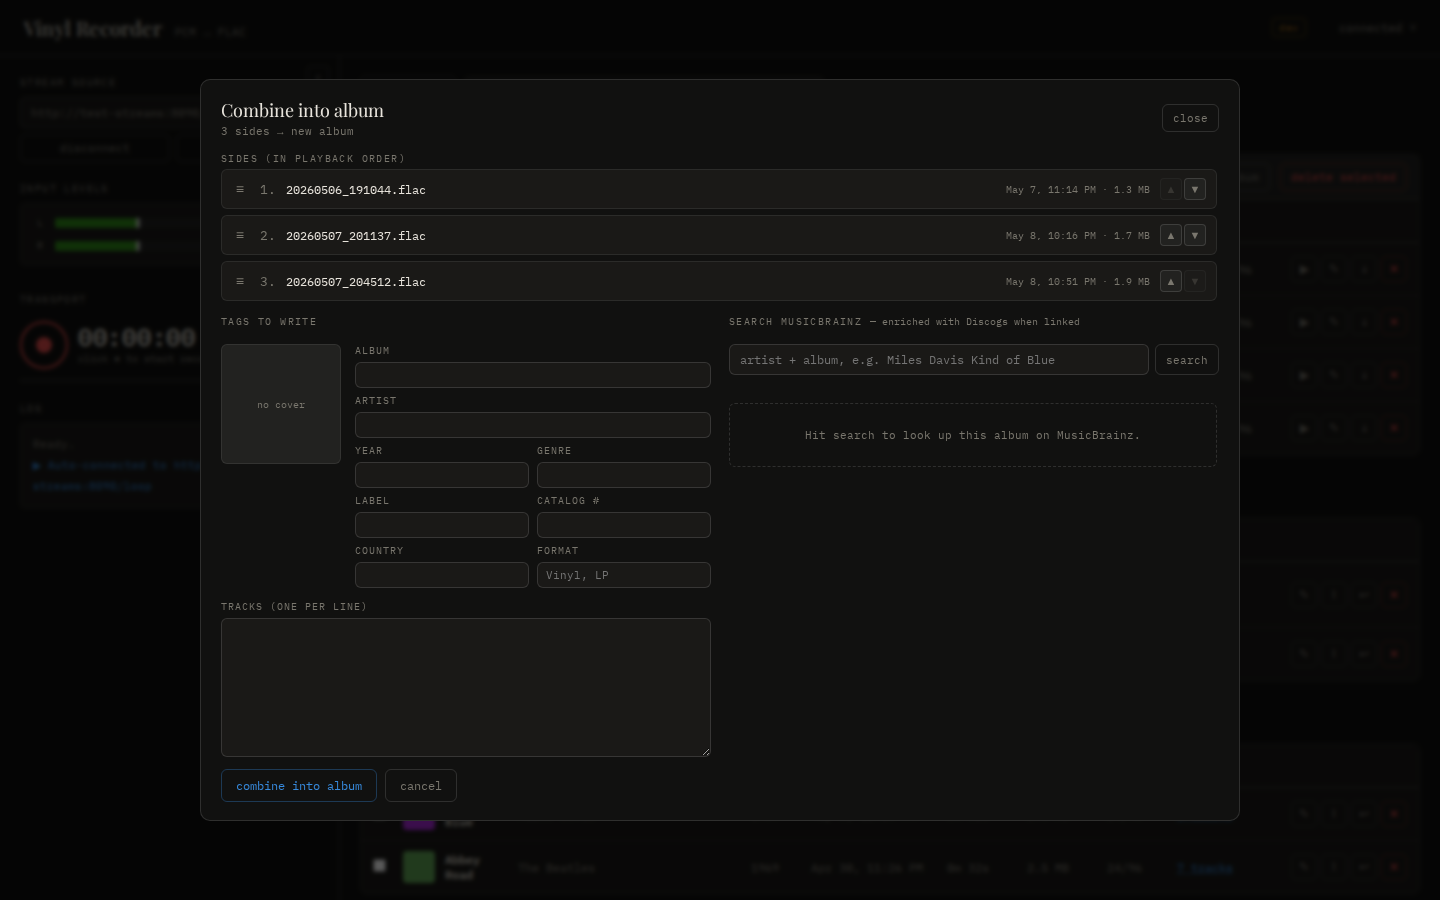
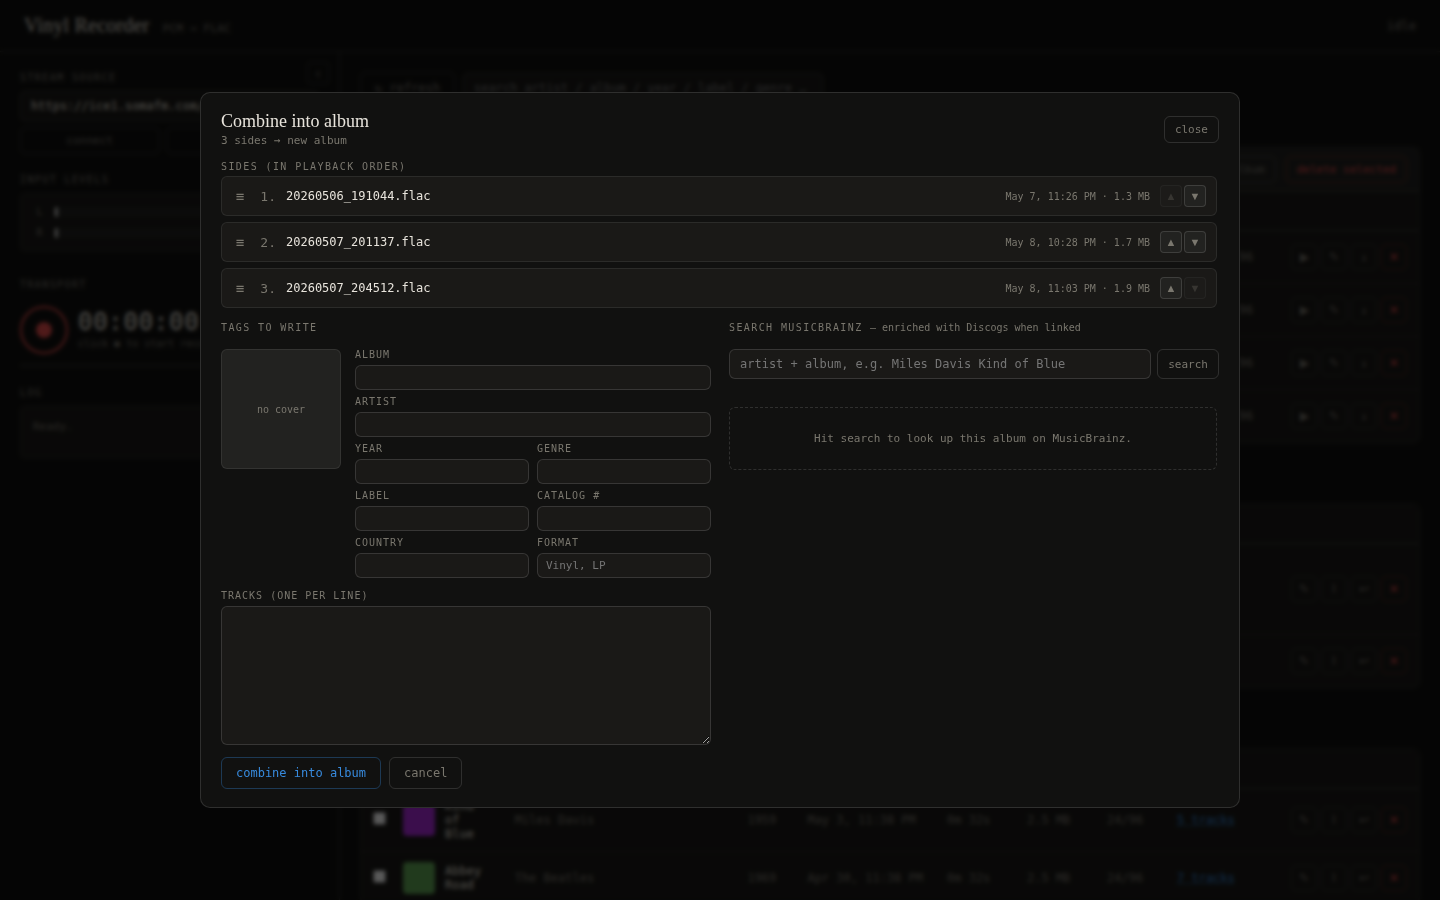
Shape album side audio + perceptual-diff gate for screenshots
The wave-editor screenshot was unconvincing: the seed only emitted
sine bursts at constant amplitude, so the "split into tracks" panel
showed a flat solid bar instead of the LP-shaped envelope a real
album rip would have. Replace the in-progress sides with pink-noise
segments whose per-track amplitudes cycle through realistic loudness
values and whose boundaries get brief low-amp dips; the editor's
silence overlay + cut markers now line up with visible track shapes.

Add a perceptual-diff gate (tools/compare_screenshots.py) so the
auto-refresh workflow doesn't spam commit-backs when the visible UI
hasn't changed. Strict byte equality is too tight: chromium font
rendering and PNG encoder timing produce small byte differences even
on identical UIs, and the workflow was previously committing those.
The new gate counts pixels whose per-channel max difference exceeds
5 intensity points; commit-back fires only when >0.1 % of the image
differs. Two consecutive runs against the same seed now produce
byte-identical PNGs (verified locally).

Mask the header version-tag in the screenshot CSS — `git describe`
output changes on every commit and would otherwise force the diff
gate to flag every PR even when the page itself is unchanged.

https://claude.ai/code/session_017ckMd5iiwUeHbE2rXNtgh1

diff --git a/tools/seed_demo_data.py b/tools/seed_demo_data.py
@@ -210,6 +210,114 @@ def _make_sine_flac(
     ])
 
 
+# Per-track peak amplitudes cycled through the album's tracklist so the
+# wave editor's rendered envelope shows believable loudness variation
+# instead of a uniform bar. Skip tracks (lead-in / run-out) get near-
+# silence; the inter-track DIP_* values produce ~180 ms gaps that read as
+# track boundaries in the waveform.
+_LP_TRACK_AMPS  = [0.55, 0.40, 0.65, 0.50, 0.70, 0.55, 0.45, 0.60, 0.65]
+_LP_DIP_DUR     = 0.18
+_LP_DIP_AMP     = 0.02
+_LP_SKIP_AMP    = 0.04
+
+
+def _make_album_envelope_sides(
+    side_paths: list[Path], side_durations: list[float],
+    plan: dict, sample_rate: int = 96000,
+) -> None:
+    """Render an LP-shaped audio timeline matching `plan`, split into
+    multiple sides whose concatenation reproduces the full album.
+
+    Each plan track gets a pink-noise segment at a track-specific peak
+    amplitude (cycled through `_LP_TRACK_AMPS`); skip tracks render as
+    quiet groove noise. Brief low-amplitude dips between tracks stand in
+    for the inter-track silences a real LP rip would have, so the wave
+    editor's silence overlay + track markers line up with the audio
+    instead of floating over a flat bar.
+
+    All segments are concatenated via a single ffmpeg `filter_complex`,
+    then split into the requested side durations and emitted as 24-bit
+    96 kHz stereo FLACs (matches the production Pi capture format).
+    """
+    if len(side_paths) != len(side_durations):
+        raise ValueError("side_paths and side_durations must be parallel")
+    total = sum(side_durations)
+
+    # Build the (duration, amplitude) timeline from the plan. Each non-final
+    # track's body is shortened by `_LP_DIP_DUR` and a quiet dip is appended
+    # so the boundary is visible in the waveform without changing the
+    # overall track-end times.
+    segs: list[tuple[float, float]] = []
+    accounted = 0.0
+    loud_i = 0
+    plan_tracks = plan["tracks"]
+    last = len(plan_tracks) - 1
+    for i, track in enumerate(plan_tracks):
+        dur = float(track["duration_seconds"])
+        amp = _LP_SKIP_AMP if track.get("skip") else _LP_TRACK_AMPS[loud_i % len(_LP_TRACK_AMPS)]
+        if not track.get("skip"):
+            loud_i += 1
+        if i < last and dur > _LP_DIP_DUR + 0.05:
+            segs.append((dur - _LP_DIP_DUR, amp))
+            segs.append((_LP_DIP_DUR, _LP_DIP_AMP))
+        else:
+            segs.append((dur, amp))
+        accounted += dur
+    # Trailing run-out groove fills any leftover time at the end.
+    if accounted < total - 0.01:
+        segs.append((total - accounted, _LP_SKIP_AMP))
+
+    # ── one ffmpeg call: anoisesrc per seg → stereo → concat → asplit/atrim
+    # → encode each output side. Single-process keeps the seed quick (~3 s
+    # for both Pink Floyd sides on a laptop) and avoids tempfile plumbing.
+    inputs: list[str] = []
+    filters: list[str] = []
+    for i, (dur, amp) in enumerate(segs):
+        # Deterministic per-segment seed so re-running the seed produces
+        # byte-identical FLACs (fed into the perceptual-diff gate later).
+        inputs.extend([
+            "-f", "lavfi",
+            "-i", f"anoisesrc=d={dur:.4f}:c=pink:r={sample_rate}:a={amp:.4f}:seed={1000 + i}",
+        ])
+        # anoisesrc is mono — promote to dual-mono stereo. LP rips have
+        # nearly identical L/R for most material; this reads as believable
+        # in the editor without the cost of two independent noise streams.
+        filters.append(f"[{i}:a]aformat=channel_layouts=stereo[s{i}]")
+
+    # Concat all segments end-to-end into [full]
+    cat_inputs = "".join(f"[s{i}]" for i in range(len(segs)))
+    filters.append(f"{cat_inputs}concat=n={len(segs)}:v=0:a=1[full]")
+
+    # asplit produces N parallel copies of [full]; each copy gets atrim'd to
+    # one side's window. asetpts re-zeros the timestamps so each output
+    # starts at 0 (otherwise the second side would have a leading gap).
+    n_sides = len(side_paths)
+    filters.append(f"[full]asplit={n_sides}{''.join(f'[f{i}]' for i in range(n_sides))}")
+    cum = 0.0
+    output_args: list[str] = []
+    for i, (p, dur) in enumerate(zip(side_paths, side_durations)):
+        end = cum + dur
+        filters.append(
+            f"[f{i}]atrim=start={cum:.4f}:end={end:.4f},asetpts=PTS-STARTPTS[out{i}]"
+        )
+        p.parent.mkdir(parents=True, exist_ok=True)
+        output_args.extend([
+            "-map", f"[out{i}]",
+            "-c:a", "flac",
+            "-sample_fmt", "s32",
+            "-ar", str(sample_rate),
+            "-ac", "2",
+            str(p),
+        ])
+        cum = end
+
+    _ffmpeg([
+        *inputs,
+        "-filter_complex", ";".join(filters),
+        *output_args,
+    ])
+
+
 def _set_mtime(p: Path, minutes_ago: float) -> None:
     """Backdate a file's mtime so the UI's "Recorded" column shows a
     realistic spread."""
@@ -294,14 +402,19 @@ def seed(output_dir: Path, *, verbose: bool = True) -> None:
     for spec in IN_PROGRESS_ALBUMS:
         d = inp_dir / spec["slug"]
         d.mkdir(parents=True, exist_ok=True)
-        sides_filenames: list[str] = []
-        for fn, dur, freq in spec["sides"]:
-            p = d / fn
-            if verbose:
-                print(f"  in-progress/{spec['slug']}/{fn}  ({dur}s @ {freq:.0f} Hz)")
-            _make_sine_flac(p, dur, freq)
+        sides_filenames = [fn for (fn, _dur, _freq) in spec["sides"]]
+        side_paths      = [d / fn for fn in sides_filenames]
+        side_durations  = [float(dur) for (_fn, dur, _freq) in spec["sides"]]
+        # Build the plan once so the audio envelope and the manifest agree
+        # on track boundaries — the wave editor renders both, and any drift
+        # between them would land in the screenshot.
+        plan = _build_plan(spec["plan_tracks"], skip_first_lead_in=True)
+        if verbose:
+            for fn, dur in zip(sides_filenames, side_durations):
+                print(f"  in-progress/{spec['slug']}/{fn}  ({dur}s envelope-shaped)")
+        _make_album_envelope_sides(side_paths, side_durations, plan)
+        for p in side_paths:
             _set_mtime(p, spec["mtime_minutes_ago"])
-            sides_filenames.append(fn)
         # Cover art so the row thumb has something to show.
         cover = d / "cover.jpg"
         _make_cover(cover, spec["tags"]["album"])
@@ -311,7 +424,7 @@ def seed(output_dir: Path, *, verbose: bool = True) -> None:
             "tags":           dict(spec["tags"]),
             "sides":          sides_filenames,
             "cover":          "cover.jpg",
-            "plan":           _build_plan(spec["plan_tracks"], skip_first_lead_in=True),
+            "plan":           plan,
             "music_relpath":  None,  # not split yet — drives "In-progress"
         }
         _write_album_json(d, manifest)

diff --git a/tools/compare_screenshots.py b/tools/compare_screenshots.py
@@ -1,0 +1,131 @@
+#!/usr/bin/env python3
+"""Pixel-similarity gate for the screenshots workflow.
+
+The CI workflow runs this AFTER `tools/screenshots.py` regenerates the
+PNGs and BEFORE the commit-back step. It decides whether to flip the
+workflow's `changed` output to `true`. Strict byte equality (`git diff
+--quiet`) is the wrong gate here: chromium font-rendering, sub-pixel
+anti-aliasing, and PNG encoder timing all produce small byte differences
+even when the visible UI is identical, which would otherwise spam the
+PR's commit history with no-op screenshot refreshes.
+
+For each PNG under `--directory`:
+
+    * Pull the previously-committed version via `git show HEAD:<path>`.
+      If the file is new (no committed predecessor), it counts as
+      changed.
+    * If the dimensions differ, it counts as changed.
+    * Otherwise compute the per-pixel per-channel max difference, count
+      the pixels whose max channel difference exceeds `INTENSITY_DELTA`
+      (default 5), and compare the fraction against `--threshold`
+      (default 0.001 == 0.1 % of pixels).
+
+Emits one line of stdout — `changed=true` or `changed=false` — suitable
+for piping straight into `$GITHUB_OUTPUT`. Per-file verdicts go to
+stderr so the workflow log is informative without polluting the step
+output.
+
+Usage:
+    python tools/compare_screenshots.py [--directory DIR] [--threshold F]
+
+Run this from the repo root so `git show HEAD:<path>` resolves.
+"""
+from __future__ import annotations
+
+import argparse
+import subprocess
+import sys
+from io import BytesIO
+from pathlib import Path
+
+DEFAULT_THRESHOLD = 0.001  # 0.1 % of pixels
+INTENSITY_DELTA   = 5      # per-channel diff below this is encoder noise
+
+
+def _committed_bytes(rel_path: str) -> bytes | None:
+    """Return the bytes of `rel_path` at git HEAD, or None if not committed."""
+    r = subprocess.run(
+        ["git", "show", f"HEAD:{rel_path}"],
+        capture_output=True,
+    )
+    if r.returncode != 0:
+        return None
+    return r.stdout
+
+
+def _fraction_changed(prev_img, cur_img) -> float:
+    """Return the fraction (0.0–1.0) of pixels whose max-channel
+    difference exceeds INTENSITY_DELTA. Done via Pillow's C-level
+    histogram so this stays fast on 1440×900 PNGs."""
+    from PIL import Image, ImageChops
+
+    if prev_img.size != cur_img.size:
+        return 1.0
+    a = prev_img.convert("RGB")
+    b = cur_img.convert("RGB")
+    diff = ImageChops.difference(a, b)
+    # Per-pixel max across R/G/B, computed with two `lighter` ops so the
+    # result is the max-channel intensity rather than a luminance-weighted
+    # average. Threshold + histogram counts differing pixels in C.
+    r, g, bl = diff.split()
+    maxch = ImageChops.lighter(ImageChops.lighter(r, g), bl)
+    mask  = maxch.point(lambda v: 255 if v > INTENSITY_DELTA else 0)
+    differing = mask.histogram()[255]
+    total = mask.size[0] * mask.size[1]
+    return differing / total
+
+
+def main() -> int:
+    ap = argparse.ArgumentParser(description=__doc__.split("\n", 1)[0])
+    ap.add_argument(
+        "--directory", default="images",
+        help="directory of regenerated PNGs to compare against HEAD (default: images)",
+    )
+    ap.add_argument(
+        "--threshold", type=float, default=DEFAULT_THRESHOLD,
+        help=f"fraction of pixels that must differ to count as changed (default: {DEFAULT_THRESHOLD})",
+    )
+    args = ap.parse_args()
+
+    # Lazy import so `--help` doesn't pay the Pillow load cost (and so the
+    # script's argparse-only entry path doesn't fail before printing usage
+    # if Pillow is missing).
+    try:
+        from PIL import Image
+    except ImportError:
+        print("Pillow is required (pip install Pillow)", file=sys.stderr)
+        return 2
+
+    d = Path(args.directory)
+    pngs = sorted(p for p in d.glob("*.png") if p.is_file())
+    if not pngs:
+        print(f"no PNGs under {d}/", file=sys.stderr)
+        print("changed=false")
+        return 0
+
+    any_changed = False
+    for p in pngs:
+        prev_bytes = _committed_bytes(str(p))
+        if prev_bytes is None:
+            print(f"  {p}: new file (no predecessor at HEAD) — CHANGED", file=sys.stderr)
+            any_changed = True
+            continue
+        try:
+            prev = Image.open(BytesIO(prev_bytes))
+            cur  = Image.open(p)
+            frac = _fraction_changed(prev, cur)
+        except Exception as e:
+            print(f"  {p}: comparison failed ({e!r}) — treating as CHANGED", file=sys.stderr)
+            any_changed = True
+            continue
+        verdict = "CHANGED" if frac > args.threshold else "unchanged"
+        print(f"  {p}: {frac:.4%} of pixels differ — {verdict}", file=sys.stderr)
+        if frac > args.threshold:
+            any_changed = True
+
+    print(f"changed={'true' if any_changed else 'false'}")
+    return 0
+
+
+if __name__ == "__main__":
+    sys.exit(main())

diff --git a/tools/screenshots.py b/tools/screenshots.py
@@ -94,6 +94,10 @@ def _hide_volatile_chrome(page) -> None:
     page.add_style_tag(content="""
         /* Disk-free readout flickers as the temp dir fills/empties. */
         #disk-free { visibility: hidden; }
+        /* Header version chip is `<git-describe>-dirty` — changes on every
+           commit and would otherwise force the perceptual-diff to flag the
+           screenshots as changed on every PR even when the UI is identical. */
+        #version-tag { visibility: hidden !important; }
         /* Health dot color depends on whether AUTO_CONNECT happened to
            catch SomaFM mid-buffer. Hide the colored dot, keep the chip's
            layout slot. */
@@ -181,21 +185,23 @@ def _capture_split_editor(page, output_dir: Path) -> Path:
     split_btns.first.click()
     page.wait_for_selector("#we-modal:not([hidden])", timeout=5_000)
     # The waveform fetches `.peaks.dat` over the network, then drawPeaks
-    # paints the canvas. Wait for actual non-blank pixels by sampling a
-    # few centerline points — `we-canvas` starts as a 2400x140 zero buffer.
+    # paints the canvas. Probe centerline pixels for the WAVEFORM colour
+    # (`#6db3ff` — blue dominates) rather than any non-blank pixel: the
+    # cut markers (red) and silence-region hatch land on the canvas
+    # before the peaks do, so a colour-blind probe would let us snap a
+    # screenshot of cuts-on-blank before the audio is rendered.
     page.wait_for_function(
         """() => {
             const c = document.getElementById('we-canvas');
             if (!c) return false;
             const ctx = c.getContext('2d');
             const data = ctx.getImageData(0, 70, c.width, 1).data;
-            // Look for at least one non-transparent, non-default pixel
-            // along the horizontal centerline. 70 is in the middle of
-            // the canvas (h=140).
             for (let i = 0; i < data.length; i += 4) {
-                if (data[i + 3] > 0 && (data[i] || data[i + 1] || data[i + 2])) {
-                    return true;
-                }
+                const r = data[i], g = data[i + 1], b = data[i + 2], a = data[i + 3];
+                // Waveform stroke is `#6db3ff` — blue dominates red.
+                // Cut markers (`#ff…` red) fail the `b > r` check, the
+                // silence-hatch grey fails the `b > 100` check.
+                if (a > 0 && b > r && b > 100) return true;
             }
             return false;
         }""",
